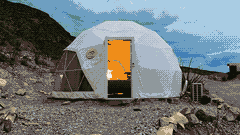
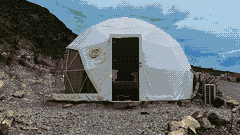
Now world: dome layers and door-light frames
Four layers cut from the dome photo at 260 px per photo width: sky (opaque;
smooth-filled sky and a far ridge behind the hill, dome and yucca), hill
(its hidden end tapers behind the dome), dome (dome, deck, yucca, AC unit)
and gravel. The door sprite has six frames from dark (rest) to today's lit
doorway, the light growing down from the lamp through dithered brown. The
flat now.png / now-m.png now show the dark door.

diff --git a/scripts/scene_art/now.py b/scripts/scene_art/now.py
@@ -1,0 +1,289 @@
+"""Now world: the geodesic dome at dusk. Layers back to front:
+sky (opaque: the storm sky, a far ridge and the ground under it; behind the hill, the dome and
+the plants it is underpainted, so the camera or a pan never shows a ghost), hill (the dark hill
+on the left with its rubble foot; its hidden right end runs on behind the dome and tapers
+diagonally into the gravel), dome (the dome, its deck, the yucca and the AC unit beside it),
+gravel (the near stones). Sprite on `dome`: door, the open doorway from dark (rest) to lit.
+
+Cut lines and outlines are in photo px and mapped with to_world."""
+import math, random
+from . import common as C
+from .common import KEY
+from .phd import line_y, wobble
+
+# ---------------------------------------------------------------- photo-space outlines
+# The dome and its deck, clockwise from the deck's left end (the bottom runs under the gravel).
+DOME = [(560, 2489), (605, 2396), (808, 2396), (791, 2291), (779, 2163), (785, 2047), (803, 1954), (826, 1884),
+        (872, 1826), (919, 1780), (965, 1739), (1024, 1692), (1082, 1657), (1128, 1628), (1210, 1588),
+        (1303, 1553), (1396, 1535), (1512, 1529), (1628, 1541), (1721, 1570), (1838, 1622), (1942, 1681),
+        (2035, 1745), (2094, 1803), (2152, 1861), (2187, 1919), (2221, 1977), (2245, 2035), (2268, 2094),
+        (2280, 2152), (2285, 2233), (2291, 2326), (2291, 2408), (2338, 2489), (2338, 2698), (582, 2698)]
+# Where the yucca and its dark stalks stand right of the dome (only non-sky / dark pixels in it
+# are taken), and the AC unit.
+CLUSTER = [(2163, 1896), (2489, 1896), (2582, 2070), (2600, 2140), (2720, 2698), (2163, 2698)]
+RIDGE_FOOT = 2210                     # photo y: below the far ridge's dark band, right of the dome
+AC = [(2396, 2268), (2594, 2268), (2594, 2524), (2396, 2524)]
+# The far ridge's top (the sky layer's horizon): measured right of the dome, run on level
+# behind the dome and the hill.
+HORIZON = [(0, 2128), (700, 2140), (1400, 2128), (2268, 2105), (2326, 2117), (2442, 2128),
+           (2559, 2152), (2675, 2175), (2756, 2187), (3024, 2175)]
+# Top of the near gravel (gravel below), under the deck's shadow.
+GRAVEL = [(0, 2431), (233, 2454), (465, 2489), (605, 2512), (814, 2524), (1279, 2536), (1745, 2536),
+          (2280, 2524), (2384, 2536), (2675, 2536), (3024, 2524)]
+# The open doorway (inside the frame): the door sprite's mask.
+DOOR = [(1349, 1791), (1663, 1791), (1663, 2524), (1349, 2524)]
+
+HILL_TOP = 1100                       # photo y: the hill's ridge is searched below the storm cloud
+UNDER = (6, 10)                       # rows the hill and dome run on under the gravel's top
+
+
+def lum(c): return 0.299 * c[0] + 0.587 * c[1] + 0.114 * c[2]
+
+
+def is_sky(c): return c[2] - c[0] > 22 and lum(c) > 95
+
+
+def build(world, render, to_world):
+    W, H = world.size
+    rng = random.Random(7089)
+    src = list(world.get_flattened_data())
+    tw = lambda pts: [to_world(*p) for p in pts]
+
+    # ------------------------------------------------------------ cut lines
+    g = [round(v) + d for v, d in zip(line_y(GRAVEL, to_world, W), wobble(W, rng, 1.5, (6.0, 2.7)))]
+    right = to_world(2268, 0)[0]                 # the real ridge starts right of the dome
+    hz = [round(v) + (d if x < right else 0) for x, (v, d) in enumerate(zip(line_y(HORIZON, to_world, W), wobble(W, rng, 1.5, (13.0, 5.1))))]
+    th = [max(2, round(4.5 + 2.5 * math.sin(x / 8.3 + 1.1) + 1.2 * math.sin(x / 3.1))) for x in range(W)]
+    dome = C.raster(tw(DOME), W, H)
+    ac = C.raster(tw(AC), W, H)
+    box = C.raster(tw(CLUSTER), W, H)
+
+    # the yucca (non-sky above the ridge, dark below the ridge's band) and the AC unit
+    foot = round(to_world(0, RIDGE_FOOT)[1])
+    cl = bytearray(W * H)
+    for y in range(H):
+        for x in range(W):
+            i = y * W + x
+            if y >= g[x] or dome[i]: continue
+            if ac[i] or (box[i] and ((y < hz[x] and not is_sky(src[i])) or (y >= foot and lum(src[i]) < 80))):
+                cl[i] = 1
+    stalks = cl                                 # every yucca pixel leaves the sky layer...
+    cl = drop_specks(cl, W, H, 4)               # ...but lone ones would float once the layers part
+    for _ in range(2):                          # the dome's sky-blue rim stays with the sky
+        rim = [i for i in range(W, W * H - W) if dome[i] and not (dome[i - 1] and dome[i + 1] and dome[i - W] and dome[i + W])
+               and src[i][2] - src[i][0] > 12]
+        for i in rim: dome[i] = 0
+    front = bytearray(1 if (dome[i] or cl[i]) else 0 for i in range(W * H))
+
+    # hill: under its ridge (the first dark rows from the top) left of where it meets the dome;
+    # behind the dome the ridge runs on down at the hill's slope until it meets the gravel.
+    top = round(to_world(0, HILL_TOP)[1])
+    ridge = []
+    for x in range(W):
+        r = None
+        for y in range(top, H - 3):
+            if all(lum(src[(y + j) * W + x]) < 80 for j in range(3)) and not dome[y * W + x]:
+                r = y; break
+        ridge.append(r)
+    assert all(r is not None for r in ridge[:W // 4]), 'hill ridge not found'
+    meet = max(x for x in range(W // 2) if ridge[x] is not None and ridge[x] < g[x] - 40 and not dome[ridge[x] * W + x])
+    slope = (ridge[meet] - ridge[meet - 12]) / 12
+    bump = wobble(W, rng, 1.5, (7.0, 3.3))
+    for x in range(meet + 1, W):                # easing off a little, with a rough crest
+        d = x - meet
+        ridge[x] = round(ridge[meet] + slope * d * (1 - d / 220) + bump[x] * min(1, d / 6))
+    under = [rng.randint(*UNDER) for _ in range(W)]
+    hill = bytearray(1 if ridge[i % W] <= i // W < g[i % W] + under[i % W] else 0 for i in range(W * H))
+
+    # ------------------------------------------------------------ sky: hill, dome and plants underpainted
+    # Sky and the far ridge are filled smoothly (patches of the cloud-flecked sky read as confetti
+    # over this much area); the ground under the ridge is patch-filled from pale ground only.
+    def band(x, y):
+        return 0 if y < hz[x] else 1 if y < hz[x] + th[x] else 2
+    hole = C.dilate(bytearray(1 if (hill[i] or front[i] or stalks[i]) and i // W < g[i % W] else 0 for i in range(W * H)), W, H, 2)
+    for i in range(W * H):
+        if i // W >= g[i % W]: hole[i] = 0
+    sky_img = world.copy()
+    smooth_fill(sky_img, hole, lambda x, y: band(x, y) == 0, lambda x, y: y)
+    smooth_fill(sky_img, hole, lambda x, y: band(x, y) == 1, lambda x, y: min(2, 3 * (y - hz[x]) // th[x]))
+    hole2 = bytearray(1 if hole[i] and band(i % W, i // W) == 2 else 0 for i in range(W * H))
+    miss = C.inpaint(sky_img, hole2, lambda sx, sy, tx, ty: band(sx, sy) == 2 and lum(src[sy * W + sx]) > 60, rng,
+                     patch=(3, 3), reach=(3, 40), dy=8)
+    assert not miss, f'sky underpaint: {len(miss)} px unfilled'
+    Qsky = list(render(sky_img).get_flattened_data())
+
+    # ------------------------------------------------------------ hill: its hidden end underpainted
+    fd = C.dilate(front, W, H, 2)
+    hidden = bytearray(1 if hill[i] and fd[i] else 0 for i in range(W * H))
+    hill_img = world.copy()
+    depth = lambda x, y: min(3, (y - ridge[x]) // 12)
+    miss = C.inpaint(hill_img, hidden, lambda sx, sy, tx, ty: hill[sy * W + sx] and depth(sx, sy) == depth(tx, ty), rng,
+                     patch=(3, 3), reach=(3, 30), dy=4)
+    assert not miss, f'hill underpaint: {len(miss)} px unfilled'
+    Qhill = list(render(hill_img).get_flattened_data())
+
+    # ------------------------------------------------------------ dome, gravel
+    Q = list(render(world).get_flattened_data())
+    door = C.raster(tw(DOOR), W, H)
+    frames, dbox = door_frames(Q, door, W, H)
+    dx0, dy0, dw, dh = dbox
+    assert all(v == KEY or v == Q[(dy0 + i // dw) * W + dx0 + i % dw] for i, v in enumerate(frames[-1])), 'lit door != photo'
+    xs = [x for x in range(W) if any(front[y * W + x] and y == g[x] - 1 for y in range(H))]
+    lo, hi = min(xs), max(xs)
+    dome_px = [KEY] * (W * H)
+    for y in range(H):
+        for x in range(W):
+            i = y * W + x
+            if (front[i] and y < g[x]) or (lo <= x <= hi and g[x] <= y < g[x] + min(under[x], 2 + min(x - lo, hi - x))):
+                dome_px[i] = Q[i]
+    for y in range(dh):                         # the doorway at rest (dark) is part of the dome too
+        for x in range(dw):
+            v = frames[0][y * dw + x]
+            if v != KEY: dome_px[(dy0 + y) * W + dx0 + x] = v
+    hill_px = [Qhill[i] if hill[i] else KEY for i in range(W * H)]
+    gravel_px = [Q[i] if i // W >= g[i % W] else KEY for i in range(W * H)]
+
+    layers = [
+        C.Layer('sky', 0, 0.2, Qsky),
+        C.Layer('hill', 0.35, 0.4, hill_px),
+        C.Layer('dome', 0.6, 0.7, dome_px),
+        C.Layer('gravel', 1, 1.3, gravel_px),
+    ]
+    door_sp = C.Sprite('door', dw, dh, frames, (dx0, dy0), 'dome', 0)
+    return C.Art(layers, [door_sp], {'alt': {'door': len(frames) - 1}})
+
+
+def drop_specks(m, W, H, n):
+    """Clears 8-connected pieces of mask m smaller than n pixels."""
+    seen = bytearray(W * H)
+    out = bytearray(m)
+    for i in range(W * H):
+        if not m[i] or seen[i]: continue
+        comp, stack = [], [i]
+        seen[i] = 1
+        while stack:
+            j = stack.pop(); comp.append(j)
+            x, y = j % W, j // W
+            for yy in range(max(0, y - 1), min(H, y + 2)):
+                for xx in range(max(0, x - 1), min(W, x + 2)):
+                    k = yy * W + xx
+                    if m[k] and not seen[k]: seen[k] = 1; stack.append(k)
+        if len(comp) < n:
+            for j in comp: out[j] = 0
+    return out
+
+
+def smooth_fill(img, hole, inside, key):
+    """Fills the hole pixels for which inside(x, y) holds (RGB, in place): each takes the mean of
+    the non-hole pixels with the same key (+-3 keys), eased toward the colours at the edges of
+    its run in the row, then two passes of a vertical 1-2-1 blur inside the fill. Smooth colour
+    that the Bayer dither then textures (with a faint wave, so no dither band runs dead straight):
+    no copied flecks."""
+    W, H = img.size
+    px = img.load()
+    sums = {}
+    for y in range(H):
+        for x in range(W):
+            if not hole[y * W + x] and inside(x, y):
+                k = key(x, y)
+                s = sums.setdefault(k, [0, 0, 0, 0])
+                for c in range(3): s[c] += px[x, y][c]
+                s[3] += 1
+    keys = sorted(sums)
+
+    def mean(k):
+        acc, n = [0, 0, 0], 0
+        for kk in keys:
+            if abs(kk - k) <= 3:
+                s = sums[kk]
+                for c in range(3): acc[c] += s[c]
+                n += s[3]
+        if not n:
+            kk = min(keys, key=lambda q: abs(q - k)); s = sums[kk]
+            return [s[c] / s[3] for c in range(3)]
+        return [v / n for v in acc]
+    fill = {}
+    for y in range(H):
+        x = 0
+        while x < W:
+            if not (hole[y * W + x] and inside(x, y)):
+                x += 1; continue
+            x0 = x
+            while x < W and hole[y * W + x] and inside(x, y): x += 1
+            x1 = x                                   # run x0 .. x1 - 1
+
+            def edge(xs):
+                cs = [px[e, y] for e in xs if 0 <= e < W and not hole[y * W + e] and inside(e, y)]
+                return [sum(c[j] for c in cs) / len(cs) for j in range(3)] if cs else None
+            cl, cr = edge(range(x0 - 3, x0)), edge(range(x1, x1 + 3))
+            for xx in range(x0, x1):
+                m = mean(key(xx, y))
+                for e, d in ((cl, xx - x0 + 1), (cr, x1 - xx)):
+                    if e: m = [m[j] + (e[j] - m[j]) * math.exp(-d / 6) for j in range(3)]
+                fill[(xx, y)] = m
+    for _ in range(2):
+        nxt = {}
+        for (x, y), c in fill.items():
+            up, dn = fill.get((x, y - 1), c), fill.get((x, y + 1), c)
+            nxt[(x, y)] = [(up[j] + 2 * c[j] + dn[j]) / 4 for j in range(3)]
+        fill = nxt
+    for (x, y), c in fill.items():               # soft wisps, so a dither threshold never runs as a straight row
+        n = 5 * math.sin(x / 7.3 + y / 2.9) + 4 * math.sin(x / 13.7 - y / 4.1 + 1.3)
+        px[x, y] = tuple(round(v + n) for v in c)
+        hole[y * W + x] = 0
+
+
+# ---------------------------------------------------------------- the door light
+ORANGE = 15
+DARK, NIGHT, BROWN, GREYBROWN = 27, 26, 21, 19
+BAYER = [[0, 8, 2, 10], [12, 4, 14, 6], [3, 11, 1, 9], [15, 7, 13, 5]]
+
+
+def door_frames(Q, door, W, H):
+    """Frames of the doorway, all with the same opaque mask: 0 = dark (rest), 5 = lit, the photo's
+    own quantised doorway (today's orange door). In between the light warms up in index space,
+    through dithered brown into orange with a world-aligned Bayer phase (dimming the RGB and
+    re-quantising would snap: the quantiser keeps mid-chroma orange off the vivid entry).
+    Dark: the room is near-black, a little less so near the top; pale things in it (the pillow)
+    stay faintly visible, the hanging cord and the floor glint are gone."""
+    pts = [(i % W, i // W) for i in range(W * H) if door[i]]
+    x0, y0 = min(p[0] for p in pts), min(p[1] for p in pts)
+    x1, y1 = max(p[0] for p in pts), max(p[1] for p in pts)
+    w, h = x1 - x0 + 1, y1 - y0 + 1
+    lit = [Q[(y0 + y) * W + x0 + x] if door[(y0 + y) * W + x0 + x] else KEY for y in range(h) for x in range(w)]
+    pale = {0, 1, 2, 3}
+
+    def bayer(x, y): return BAYER[(y0 + y) % 4][(x0 + x) % 4]
+
+    def dark(x, y, v):
+        if v == KEY: return KEY
+        if v == ORANGE or v not in pale and v not in (DARK, NIGHT, BROWN):
+            return NIGHT if bayer(x, y) < 8 * max(0, 1 - y / (0.7 * h)) else DARK
+        if v in pale: return GREYBROWN if v in (0, 3) else BROWN
+        return v
+    # The light grows from the lamp above: frame f lights the room down to level L[f] (0 = top of
+    # the orange, 1 = its foot) with a dithered falloff band below; under it the room is dim
+    # (a dark/brown checker) from frame 1 on.
+    foot = max(y for y in range(h) for x in range(w) if lit[y * w + x] == ORANGE) + 1
+    L = [None, -1, 0.15, 0.45, 0.75, None]
+    BAND = 0.4
+
+    def share(f, y):
+        return min(1.0, max(0.0, (L[f] - y / foot) / BAND + 0.5))
+    frames = []
+    for f in range(len(L)):
+        g = []
+        for y in range(h):
+            for x in range(w):
+                v = lit[y * w + x]
+                if f == len(L) - 1 or v == KEY: g.append(v); continue
+                dk = dark(x, y, v)
+                if f == 0: g.append(dk); continue
+                k = share(f, y)
+                dim = BROWN if (x + y) % 2 else DARK
+                if v == ORANGE:
+                    g.append(ORANGE if bayer(x, y) < 16 * k else dim)
+                else:
+                    g.append(v if k > 0.5 else dk)
+        frames.append(g)
+    return frames, (x0, y0, w, h)

diff --git a/scripts/pixel-scenes.py b/scripts/pixel-scenes.py
@@ -20,9 +20,9 @@ PULL = 0.22
 # id -> (photo, landscape crop, portrait crop); a crop is (cx, cy) or (cx, cy, zoom), see load().
 # Crops are judged on the built page with the section centred: the panel and deck cover most of
 # the middle, so each subject is placed in what they leave free. hero: the Chisos peak right of
-# the YARAikiba card (desktop), in the band above the intro panel (phone). phd's crops are unused
-# while it has a world (see its world settings). now (phone):
-# the lit door left of the deck. river (phone): the camp between the panel and the footer.
+# the YARAikiba card (desktop), in the band above the intro panel (phone). phd's and now's crops
+# are unused while they have worlds (see their world settings; --new-palette still reads them).
+# river (phone): the camp between the panel and the footer.
 SCENES = {
     'hero':      ('DSC04135.JPG', (0.42, 1, 1.3), (0.85, 1, 1.9)),
     'srm':       ('DSC04305.JPG', (0.5, 0.55), (0.5, 0.55)),
@@ -35,7 +35,15 @@ SCENES = {
         # Desktop keeps the old framing: the horse in the free column left of the deck.
         'density': 400, 'world': (264, 224), 'centre': (0.669, 0.5776),
         'land': (6, 89), 'port': (8, 10)}),
-    'now':       ('IMG_7089.JPG', (0.5, 0.55), (1, 0.5, 1.27)),
+    'now':       ('IMG_7089.JPG', (0.5, 0.55), (1, 0.5, 1.27), {
+        # A world at 260 px per photo width, the least the land view allows (240 + camera drift
+        # + seam, and the photo is only `density` wide): the dome is ~130 px wide, more than a
+        # phone shows, so the phone frames the door, the apex and the right shoulder (the dome's
+        # left third is off-screen), with the door top 83 rows down: late in the stop, when the
+        # light comes on, that is the gap between the deck's pager and the next panel. Desktop
+        # keeps today's framing, ~1.08x tighter: the door right of the Now panel's edge.
+        'density': 260, 'world': (260, 224), 'centre': (0.5, 0.510577),
+        'land': (4, 51), 'port': (90, 6)}),
     'river':     ('IMG_7241.JPG', (0.5, 0.55), (0.55, 0, 1.22)),
 }
 # The shared palette, fixed so a crop change never recolours the other scenes. It was made by
